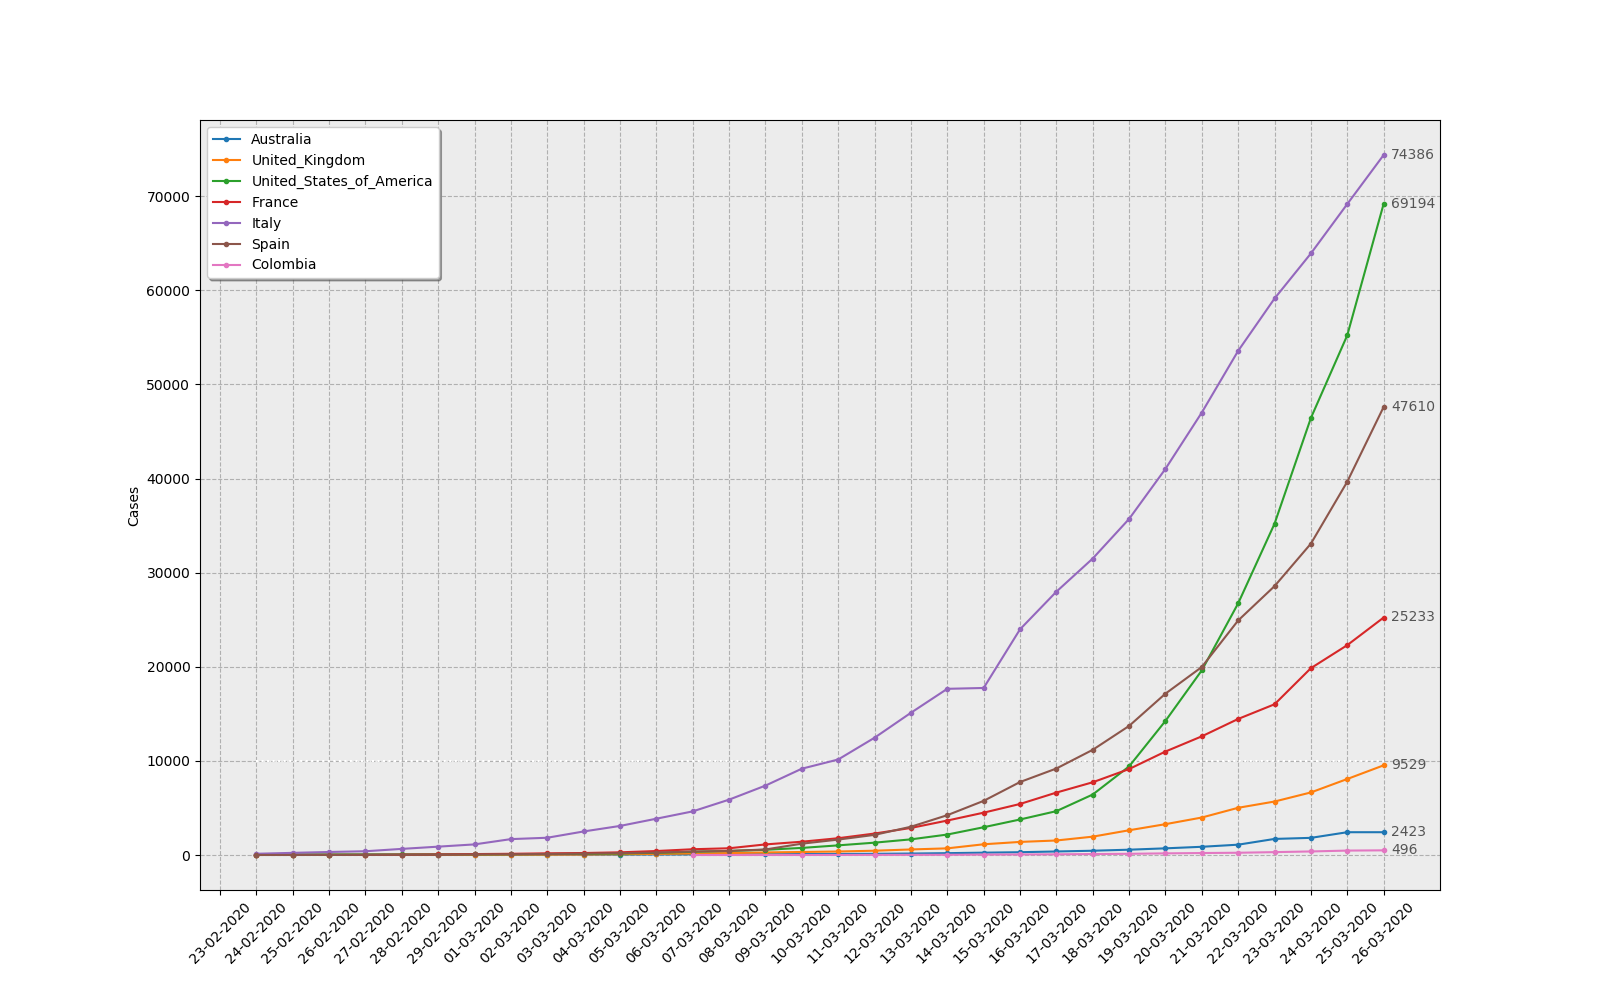
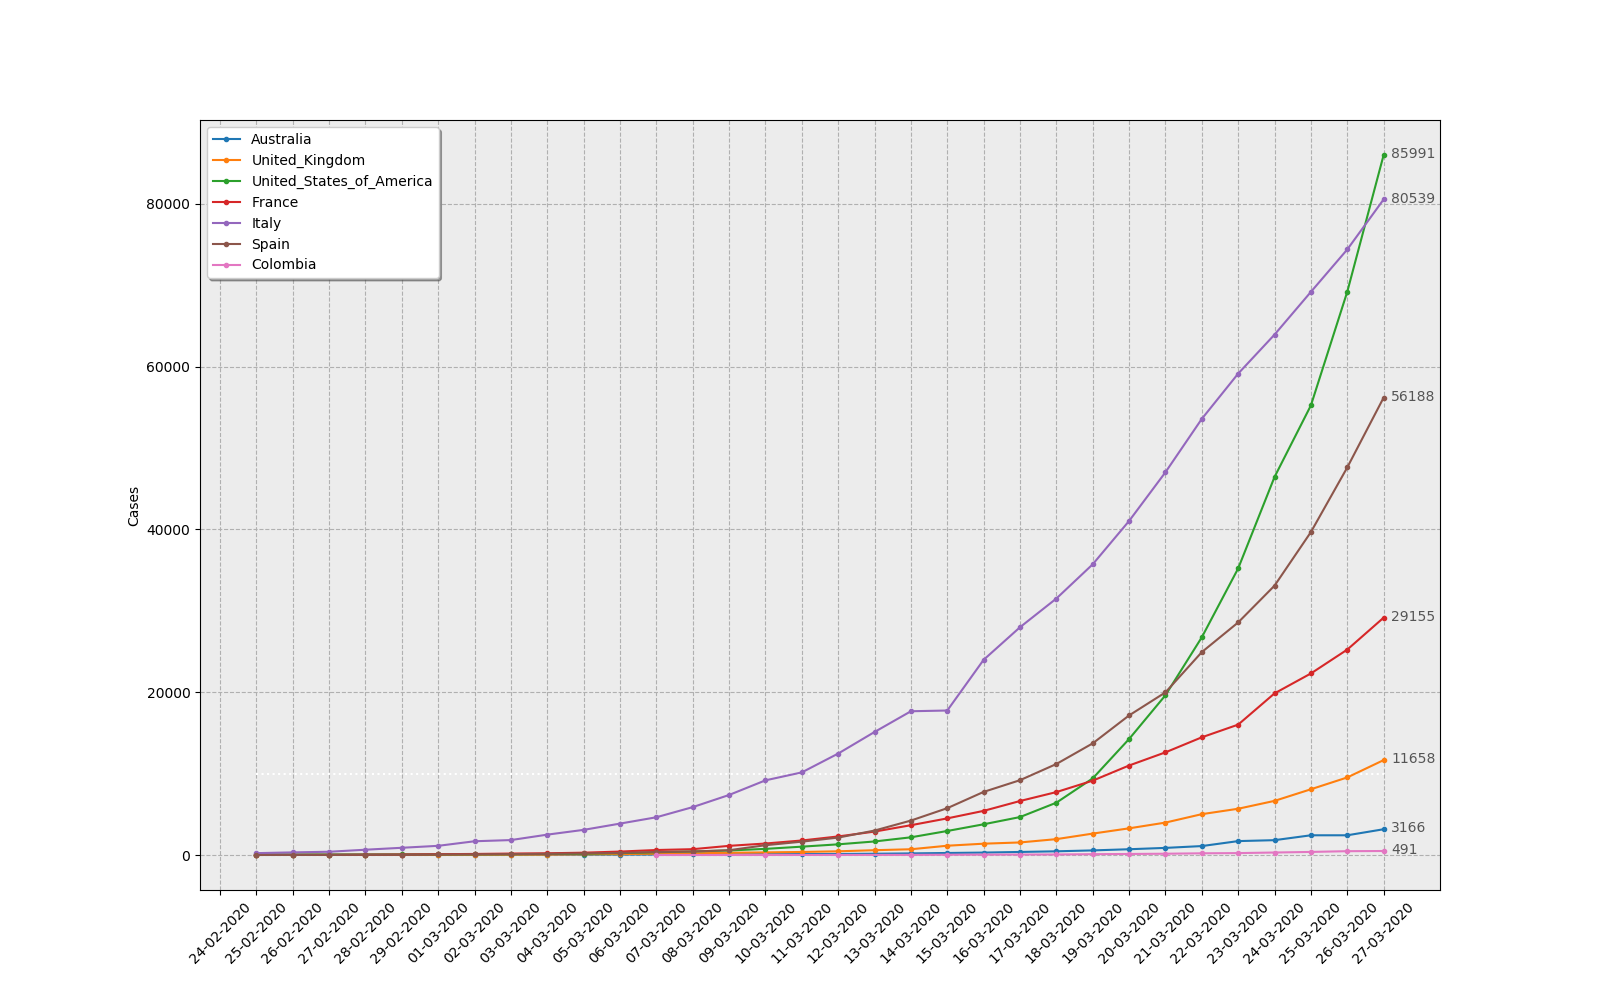
updated csv link

diff --git a/covid19.py b/covid19.py
@@ -1,3 +1,4 @@
+import os
 import sys
 import csv
 import wget
@@ -19,14 +20,16 @@ vis = 32 # Plot last 'vis' days (default=40)
 dpi = 100 # PNG image saving dpi
 
 today = date.today()
-date = today.strftime("%Y-%m-%d")
-print('Building plots for %s'%(date))
+datet = today.strftime("%Y-%m-%d")
+print('Building plots for %s'%(datet))
 
 print('Data downloaded from the European Centre for Disease Prevention and Control')
-url = 'https://www.ecdc.europa.eu/sites/default/files/documents/COVID-19-geographic-disbtribution-worldwide-' + date + '.csv'
+# Updated link since 2020-03-27 by the ECDPC
+url = 'https://opendata.ecdc.europa.eu/covid19/casedistribution/csv'
 
-if not path.exists('data/'+url.split('/')[-1]):
+if not path.exists('data/'+datet+'.csv'):
     wget.download(url, out='data/')
+    os.rename('data/csv', 'data/'+datet+'.csv')
     print('')
 
 data = {}
@@ -35,7 +38,7 @@ for country in countries:
     cases = []
     deaths = []
     data[country] = {}
-    with open('data/'+url.split('/')[-1], "rt", encoding="iso-8859-2") as csv_file:
+    with open('data/'+datet+'.csv', "rt", encoding="iso-8859-2") as csv_file:
         csv_reader = csv.reader(csv_file, delimiter=',')
         for row in csv_reader:
             if country == row[6]:
